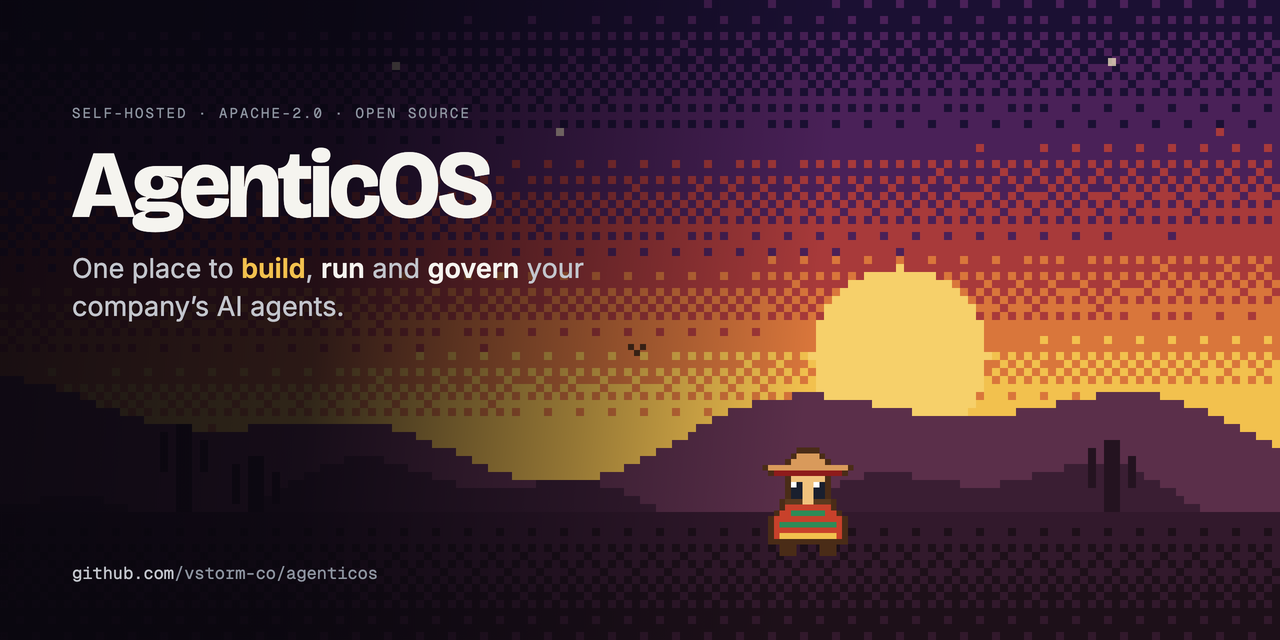
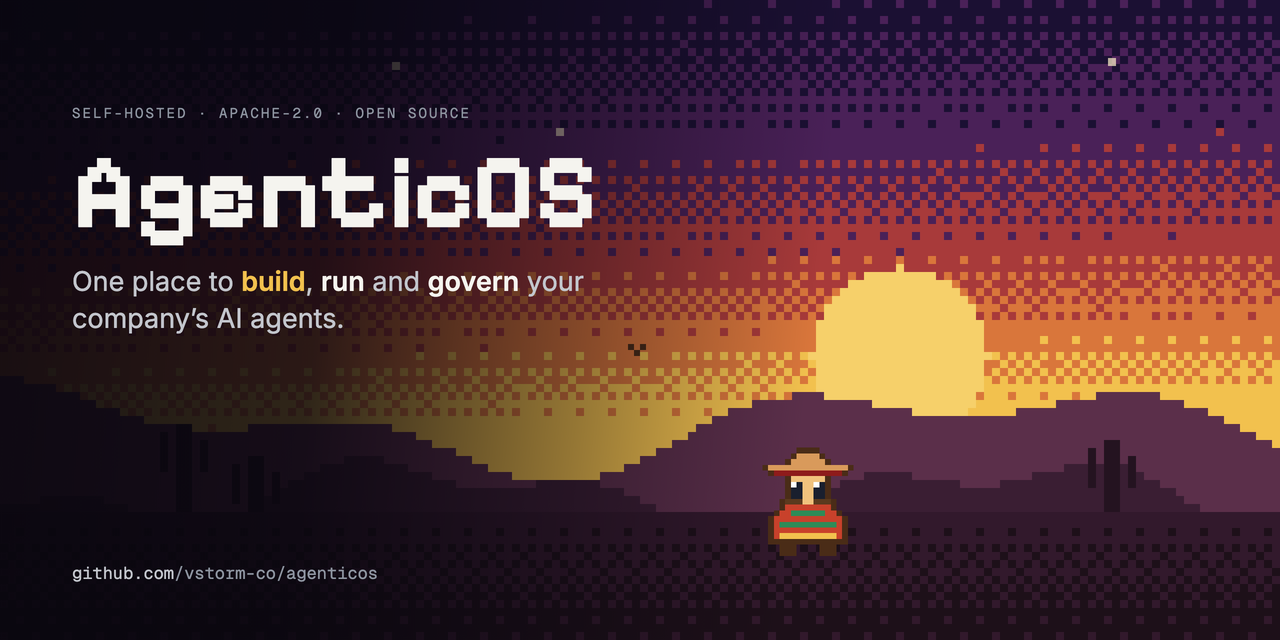
fix(docs): set the social card's name in a pixel face
The background is drawn on a 16-pixel grid and so is the mascot, which
left the wordmark as the one element on the card belonging to a
different drawing. It is Pixelify Sans now; the sentence under it stays
a proper sans, because a display face this loud is a name and not a
paragraph.

Checked the previous face was actually loading before changing it - it
was, so this is a choice rather than a fallback - and compared nine
candidates rendered on the real card at the size each one needs.

323 KiB over 48 frames.

Changed region(s): [[0.0312, 0.2188, 0.4688, 0.5312]]

diff --git a/docs/assets/social-preview.html b/docs/assets/social-preview.html
@@ -27,7 +27,7 @@
 -->
 <link rel="preconnect" href="https://fonts.googleapis.com">
 <link rel="preconnect" href="https://fonts.gstatic.com" crossorigin>
-<link href="https://fonts.googleapis.com/css2?family=Bricolage+Grotesque:opsz,wght@12..96,800&amp;family=Inter:wght@400;500;600&amp;family=Geist+Mono:wght@400;500&amp;display=swap" rel="stylesheet">
+<link href="https://fonts.googleapis.com/css2?family=Pixelify+Sans:wght@700&amp;family=Inter:wght@400;500;600&amp;family=Geist+Mono:wght@400;500&amp;display=swap" rel="stylesheet">
 <style>
   :root {
     --ink: #F5F4EF;
@@ -104,12 +104,16 @@
     text-transform: uppercase;
     margin: 0 0 20px;
   }
+  /* A pixel face for a pixel card. The background is drawn on a 16-pixel grid
+     and so is the mascot; a smooth grotesque over them was the one element on
+     this card that belonged to a different drawing. The body copy stays a
+     proper sans - a display face this loud is a name, not a paragraph. */
   h1 {
-    font-family: "Bricolage Grotesque", Inter, sans-serif;
-    font-weight: 800;
-    font-size: 96px;
-    line-height: 0.92;
-    letter-spacing: -0.035em;
+    font-family: "Pixelify Sans", ui-monospace, monospace;
+    font-weight: 700;
+    font-size: 106px;
+    line-height: 0.95;
+    letter-spacing: -0.01em;
     margin: 0;
   }
   .tag { margin: 20px 0 0; font-size: 27px; line-height: 1.38; color: #C3C6CD; }

diff --git a/CHANGELOG.md b/CHANGELOG.md
@@ -79,8 +79,11 @@ Two things are versioned separately from this file and worth knowing about:
   is a 16-pixel sprite and a smooth gradient behind a sprite reads as a drawing
   pasted onto somebody else's artwork. `docs/assets/social-preview.html` is the
   card over it: Amigo walks the dunes, two birds cross the sky, the first stars
-  come out, and the verb in the tagline lights in the colour of the sun. It
-  renders to a 330 KiB GIF for anywhere that animates and a PNG for anywhere
+  come out, and the verb in the tagline lights in the colour of the sun. The
+  name is set in a pixel face for the same reason the sky is dithered - a smooth
+  grotesque over a 16-pixel scene was the one element on the card that belonged
+  to a different drawing - while the sentence under it stays a proper sans. It
+  renders to a 323 KiB GIF for anywhere that animates and a PNG for anywhere
   that does not.
 - **Amigo is the product's mark, everywhere one was drawn.** Five different marks
   were in circulation: the pixel mascot in the README, a blue orbit in the docs
